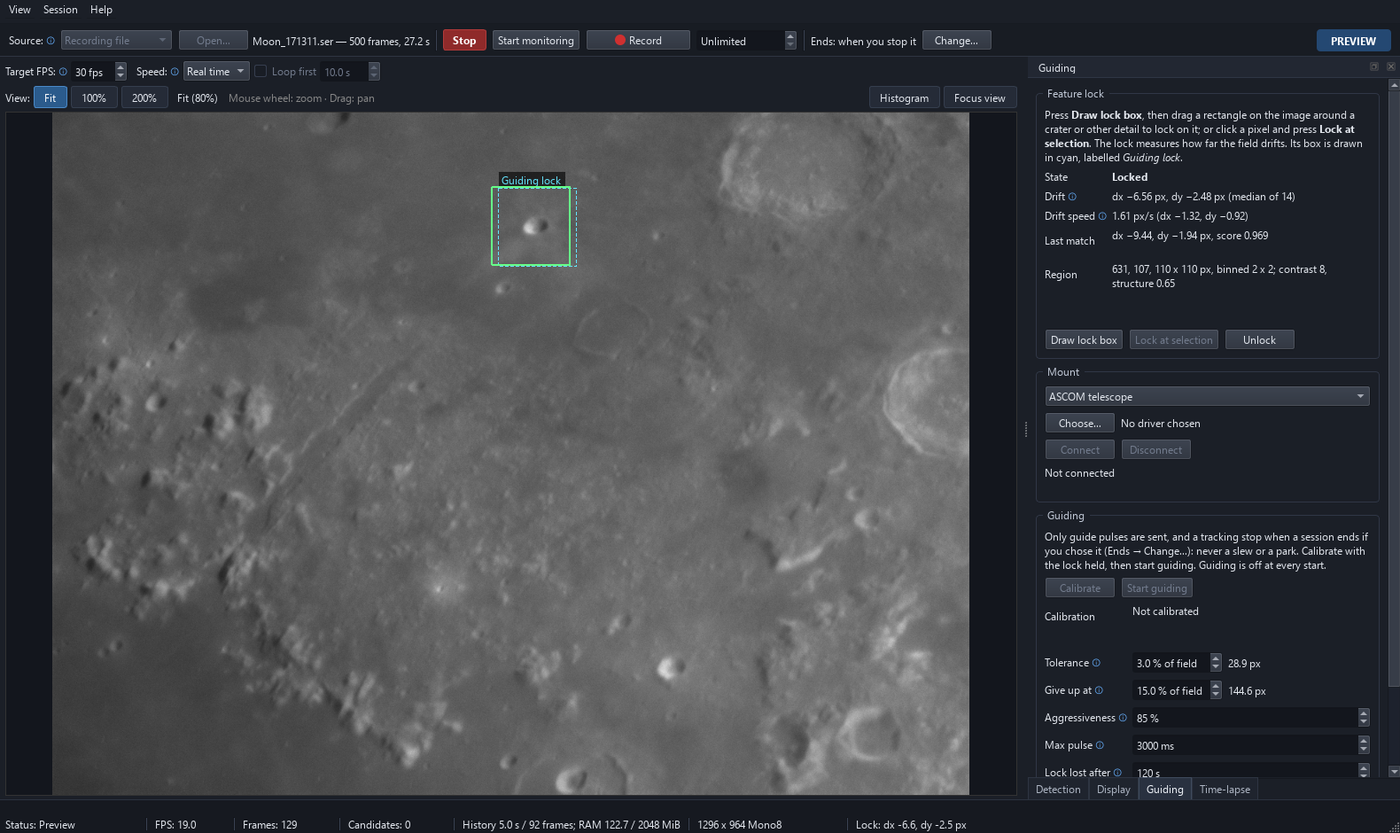
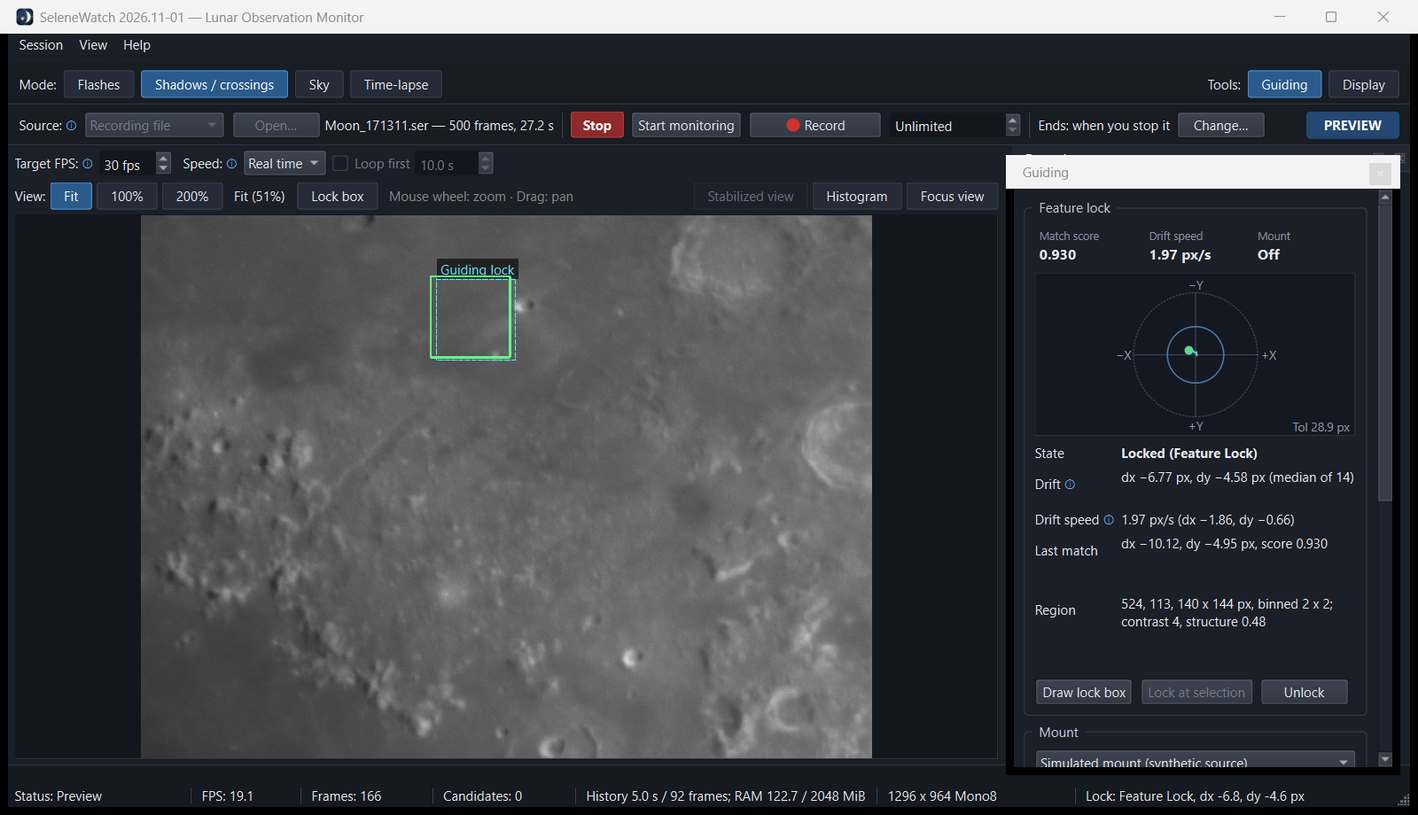
Refresh docs, startup tips, and UI screenshots for GUI redesign
Update user documentation, in-app startup tips, and application screenshots
following Feature-51 (Mode bar, floating Camera/Guiding/Display tools,
Capture & storage split, Guiding 2D drift bullseye, dedicated Time-lapse
viewport and Latest stacks strip) and Feature-52 (detector learning period
and consistent Preview-first workflow):

- Refresh docs/images/{readme-main-window,readme-guiding,manual-guiding,
  manual-display-histogram,manual-timelapse}.png from real lunar recordings
  in the redesigned dark UI.
- Update README.md (Time-lapses, Guiding, Also in SeleneWatch, captions),
  MANUAL.md screenshot captions, and CAMERA_SETTINGS_GUIDE.md (Tools ->
  Display/Guiding, Mode/Watching names).
- Update src/ui/startup_tips.cpp so Disk reserve points to Session ->
  Capture & storage... and tips match the new Mode/Tools labels.

Validation:
- Release build + ctest -R '^ui$' passed (100%, verifies startup tips
  anchors against MANUAL.md).
- All refreshed screenshots visually inspected.

diff --git a/src/ui/startup_tips.cpp b/src/ui/startup_tips.cpp
@@ -66,7 +66,7 @@ const std::vector<StartupTip>& allStartupTips()
         {
             "Display controls never alter saved pixels",
             "Switching to <b>Auto-stretch</b>, moving <b>Black / white levels</b>, ticking <b>Invert brightness</b>, "
-            "or toggling <b>Show Bayer colour</b> in <b>Display</b> only changes what appears on screen. "
+            "or toggling <b>Show Bayer colour</b> in <b>Tools &rarr; Display</b> only changes what appears on screen. "
             "Saved <code>.ser</code> videos and the detector always read unmodified linear camera pixels.",
             kSectionDisplay
         },
@@ -121,7 +121,7 @@ const std::vector<StartupTip>& allStartupTips()
         // ── Phase 2: Camera depth, ROI, timing, review & rehearsal ───────────
         {
             "Keep full sensor depth with RAW16",
-            "Choosing <b>RAW16</b> in your <b>Camera</b> dock preserves every ADC bit delivered by your sensor "
+            "Choosing <b>RAW16</b> in <b>Tools &rarr; Camera</b> preserves every ADC bit delivered by your sensor "
             "instead of scaling to 8 bits. Use <b>View &rarr; Histogram</b> in <b>Preview</b> to verify that sunlit "
             "lunar terrain or planetary bands stay unclipped for transits and time-lapses.",
             kSectionSource
@@ -129,8 +129,8 @@ const std::vector<StartupTip>& allStartupTips()
         {
             "Draw a hardware camera ROI on the preview",
             "Need faster frame rates or smaller files when imaging a planet or a single lunar crater? Click "
-            "<b>Draw ROI</b> in your <b>Camera</b> dock and drag a box directly on the live preview to crop the "
-            "sensor readout, or reset to full frame whenever you need the whole field back.",
+            "<b>ROI</b> above the preview (or <b>Draw ROI</b> in <b>Tools &rarr; Camera</b>) and drag a box directly "
+            "on the live image to crop the sensor readout, or reset to full frame whenever you need the whole field back.",
             kSectionSource
         },
         {
@@ -172,10 +172,10 @@ const std::vector<StartupTip>& allStartupTips()
         },
         {
             "Disk reserve safety",
-            "Set <b>Disk reserve</b> in <b>Display</b> to keep a safety margin of free space on your "
-            "output drive&mdash;especially when recording long SER runs or ticking <b>Also save raw SER bursts</b> in "
-            "<b>Time-lapse</b>. If free space drops below the reserve, SeleneWatch stops writing safely instead of "
-            "filling your disk.",
+            "Set <b>Disk reserve</b> under <b>Session &rarr; Capture &amp; storage&hellip;</b> to keep a safety margin "
+            "of free space on your output drive&mdash;especially when recording long SER runs or ticking <b>Also save "
+            "raw SER bursts</b> in <b>Time-lapse</b>. If free space drops below the reserve, SeleneWatch stops writing "
+            "safely instead of filling your disk.",
             kSectionOutputs
         },
 
@@ -204,10 +204,10 @@ const std::vector<StartupTip>& allStartupTips()
         },
         {
             "Surface-feature & planetary guiding",
-            "Hold a lunar crater or planetary disk steady without a guide scope: open <b>Guiding</b> in "
-            "<b>Preview</b>, click <b>Draw lock box</b> and drag around a sharp feature, connect your <b>ASCOM "
-            "telescope</b>, run <b>Calibrate</b>, and press <b>Start guiding</b>. Keeping <b>Tolerance</b> around "
-            "<code>3.0%</code> avoids chasing atmospheric seeing.",
+            "Hold a lunar crater or planetary disk steady without a guide scope: open <b>Tools &rarr; Guiding</b> in "
+            "<b>Preview</b>, click <b>Draw lock box</b> (or <b>Lock box</b> above the preview) and drag around a sharp "
+            "feature, connect your <b>ASCOM telescope</b>, run <b>Calibrate</b>, and press <b>Start guiding</b>. "
+            "Keeping <b>Tolerance</b> around <code>3.0%</code> avoids chasing atmospheric seeing.",
             kSectionGuides
         },
         {
@@ -266,9 +266,10 @@ const std::vector<StartupTip>& allStartupTips()
         // ── Phase 5: Time-lapses & testing safety reminder ───────────────────
         {
             "Lunar and planetary time-lapses",
-            "Watch planets turn and lunar shadows unfold. Open <b>Time-lapse</b> to capture regular bursts, stack "
-            "the sharpest frames, and export any mix of <b>MP4</b>, <b>GIF</b>, and lossless <b>SER</b> alongside "
-            "32-bit FITS stacks. End automatically via <b>Ends</b> above the preview or after a set stack count.",
+            "Watch planets turn and lunar shadows unfold. Switch to <b>Mode: Time-lapse</b> to capture regular bursts, "
+            "stack the sharpest frames, inspect them in the live <b>Latest stacks</b> strip, and export any mix of "
+            "<b>MP4</b>, <b>GIF</b>, and lossless <b>SER</b> alongside 32-bit FITS stacks. End automatically via "
+            "<b>Ends</b> above the preview or after a set stack count.",
             kSectionTimelapse
         },
         {

diff --git a/CAMERA_SETTINGS_GUIDE.md b/CAMERA_SETTINGS_GUIDE.md
@@ -48,7 +48,7 @@ Unlike deep-sky or planetary imaging of a steady target, a **lunar impact flash 
      - Medium and bright flashes clip at `255` / `65535`, preventing accurate peak brightness and impactor energy photometry.
      - The saturated glare zone spilling from the sunlit crescent expands much farther across the dark earthshine limb, blinding a larger fraction of the Moon.
 
-> **Use Display Stretch for your eyes, not camera gain:** Keep raw earthshine at **3–10 %** on the histogram, and switch **Display and capture → Display** to **Auto-stretch** (or set **Black / white levels** around the earthshine ADU range). You get a bright, high-contrast live view on screen while the detector and saved `event.ser` keep 90 %+ linear headroom.
+> **Use Display Stretch for your eyes, not camera gain:** Keep raw earthshine at **3–10 %** on the histogram, and open **Tools → Display** to switch to **Auto-stretch** (or set **Black / white levels** around the earthshine ADU range). You get a bright, high-contrast live view on screen while the detector and saved `event.ser` keep 90 %+ linear headroom.
 
 ---
 
@@ -75,7 +75,7 @@ The sunlit lunar surface is roughly **10,000× brighter** than earthshine. **Let
 2. **Avoid wasting sensor area on flat saturated white (`255` / `65535`):**
    - Saturated pixels have zero variance—they cannot detect flashes and cannot be used for guiding.
    - Because SeleneWatch estimates noise **per pixel**, the bright scattered-light gradient near the burned crescent automatically receives a higher local noise estimate `σ(x, y)` (preventing false triggers), while darker earthshine farther from the terminator keeps a low `σ(x, y)` and full sensitivity.
-3. **Where to place the Feature Lock box (`View → Guiding`):**
+3. **Where to place the Feature Lock box (`Tools → Guiding` or `Lock box` above the preview):**
    - **Option A — Lock directly on earthshine:** If the sunlit side is completely outside the frame, drag a slightly larger lock box (`80 × 80` to `128 × 128 px`) around a prominent high-contrast earthshine feature (*Aristarchus*, *Copernicus*, *Grimaldi*, *Mare Crisium*, or a curved earthshine limb corner). SeleneWatch's normalized cross-correlation runs on native ADU and tracks earthshine features reliably even at 5 % histogram levels.
    - **Option B — Lock on an unsaturated terminator cusp:** If a corner of the terminator is in view, lock onto an **unsaturated** crater rim near the high-latitude cusp where shadow contrast is crisp in both X and Y—never onto a flat saturated white plateau.
 
@@ -83,7 +83,7 @@ The sunlit lunar surface is roughly **10,000× brighter** than earthshine. **Let
 
 ### 1.5 30-Second Pre-Monitoring Checklist in SeleneWatch
 
-**Auto-tune does most of this for you.** In Preview, press **Auto-tune…** at the top of the Detection dock and draw a box on the earthshine. **Tune camera** sets the gain live, round by round (keeping the exposure at 10–40 ms), until the earthshine is in the 3–10 % aim. It then compares the gain it reached with one near the top of the aim by their measured noise, and keeps the one with the faintest threshold in photons. **Watch** then compares several K values on the same frames and suggests the lowest quiet one ([MANUAL.md, section 2.6](MANUAL.md#17-auto-tune)). The aims it uses are the ones in this guide: earthshine 3–10 %, sunlit rims 60–80 % for transits, and the sky 8–30 %. Run it again once the sky around the Moon is dark, and for the sky, run it in full darkness. The checks below are what it measures, if you prefer to do them by hand.
+**Auto-tune does most of this for you.** In Preview, press **Tune camera & detection…** at the top of the Detection panel and draw a box on the earthshine. **Tune camera** sets the gain live, round by round (keeping the exposure at 10–40 ms), until the earthshine is in the 3–10 % aim. It then compares the gain it reached with one near the top of the aim by their measured noise, and keeps the one with the faintest threshold in photons. **Watch** then compares several K values on the same frames and suggests the lowest quiet one ([MANUAL.md, section 1.7](MANUAL.md#17-auto-tune)). The aims it uses are the ones in this guide: earthshine 3–10 %, sunlit rims 60–80 % for transits, and the sky 8–30 %. Run it again once the sky around the Moon is dark, and for the sky, run it in full darkness. The checks below are what it measures, if you prefer to do them by hand.
 
 Before pressing **Start monitoring**:
 
@@ -104,14 +104,14 @@ Before pressing **Start monitoring**:
 
 ## 2. Settings for the Other Observing Workflows
 
-### 2.1 Lunar Transits & Shadows (`Watching: The Moon: shadows on the sunlit side`)
+### 2.1 Lunar Transits & Shadows (`Mode: Shadows / crossings`)
 
 - **Goal:** Keep the entire **sunlit lunar disk** unsaturated so aircraft, birds, satellites, or the ISS produce crisp, high-SNR negative contrast dips rather than dipping inside a clipped plateau.
 - **Histogram target:** Peak sunlit crater rims around **60 % – 80 %** of full scale (`~150–205 ADU` in `RAW8`, `~40000–52000 ADU` in `RAW16`), with **`At max code` reading `0.00%`** (especially important if recording continuously via **Record** or **Session → Schedule a recording…** for occultations or ISS transits).
 - **Exposure & Gain:** Use **low gain** and fast shutter speeds (**`1 – 10 ms`**, `60 – 200+ fps`) so fast transits (`0.5 s` ISS pass) remain sharp across many frames.
-- **Detection:** Set **Watching** to **The Moon: shadows on the sunlit side**. Darkening is always on there, and its own settings start at **`K 12`** (raise to `16` if seeing still triggers), `20 px` shadows, and one frame is enough, so the ISS and satellites, which never show twice in the same place, are caught too.
+- **Detection:** Switch to **Mode: Shadows / crossings** (or **Watching: Shadows / crossings (Moon, Sun, planets)**). Darkening is always on there, and its own settings start at **`K 12`** (raise to `16` if seeing still triggers), `20 px` shadows, and one frame is enough, so the ISS and satellites, which never show twice in the same place, are caught too.
 
-### 2.2 Lunar & Planetary Time-Lapses
+### 2.2 Lunar & Planetary Time-Lapses (`Mode: Time-lapse`)
 
 - **Goal:** Freeze atmospheric seeing per frame (`1 – 15 ms`) with high dynamic range so stacks of the sharpest frames (`stacks/*.fits`) align cleanly and tolerate aggressive **Re-sharpen time-lapse…** deconvolution/USM without noise explosion or blown highlights.
 - **Histogram target:** **65 % – 85 %** on the brightest sunlit lunar highland/crater rim or Jupiter/Saturn cloud band, keeping **`At max code`** at **`0.00%`** (`0` clipped white pixels—clipped pixels cannot be recovered by sharpening).
@@ -121,11 +121,11 @@ Before pressing **Start monitoring**:
 
 ### 2.3 Wide-Field Sky Watch (Meteors, Fireballs, Lightning, Aircraft)
 
-- **Goal:** Maximize sky coverage and detection sensitivity across the night while leaving headroom for bright meteor flares and lightning, and ignoring horizon clutter via **Draw mask**.
+- **Goal:** Maximize sky coverage and detection sensitivity across the night while leaving headroom for bright meteor flares and lightning, and ignoring horizon clutter via **Mask** (**Draw mask**).
 - **Histogram target:** Keep the **unmasked sky median** between **8 % and 30 %** of full scale (`~5000–20000 ADU` in `RAW16`, `20–75 ADU` in `RAW8`), with **`At 0` = `0.00%`**.
-  - When **Follow the sky's brightness** is enabled under **Watching: The sky**, SeleneWatch automatically adjusts camera exposure (up to `2×` per step within your `ms` bounds) and then gain (within your cap) whenever the unmasked sky median drifts outside **8 % – 30 %**.
-- **Exposure & Gain (Watching: The sky: fast events):** about **`20 – 40 ms`** (`25 – 50 fps`) with moderate-to-high gain; auto-tune stops at 40 ms by default. A meteor crosses a pixel in a few milliseconds, so a longer exposure leaves no more of its light in each pixel. It only adds sky background, and the noise each pixel is tested against. Short exposures also give the timing and trajectory frame by frame.
-- **Slow and faint light (Watching: The sky: slow and faint):** aurora, airglow waves, slow satellites and long glows, and a time-lapse of the night. Light that stays in place keeps adding up, so use **`0.25 – 2 s`** (auto-tune's default longest is 2 s), keeping the sky median in the same 8–30 % band. Its detection settings learn the background over about five frames, and **Time-lapse while monitoring** keeps a frame every 30 or 60 s.
+  - When **Follow the sky's brightness** is enabled under **Mode: Sky**, SeleneWatch automatically adjusts camera exposure (up to `2×` per step within your `ms` bounds) and then gain (within your cap) whenever the unmasked sky median drifts outside **8 % – 30 %**.
+- **Exposure & Gain (`Watching: Fast sky events (meteors, lightning)`):** about **`20 – 40 ms`** (`25 – 50 fps`) with moderate-to-high gain; auto-tune stops at 40 ms by default. A meteor crosses a pixel in a few milliseconds, so a longer exposure leaves no more of its light in each pixel. It only adds sky background, and the noise each pixel is tested against. Short exposures also give the timing and trajectory frame by frame.
+- **Slow and faint light (`Watching: Slow & faint sky (long exposures)`):** aurora, airglow waves, slow satellites and long glows, and a time-lapse of the night. Light that stays in place keeps adding up, so use **`0.25 – 2 s`** (auto-tune's default longest is 2 s), keeping the sky median in the same 8–30 % band. Its detection settings learn the background over about five frames, and **Time-lapse while monitoring** keeps a frame every 30 or 60 s.
 - **Sensor Color Note:** Both **mono** and **raw Bayer colour** sensors work identically in **Detection** (per-pixel statistics run on the raw mosaic; **Show Bayer colour** only affects screen display, never evidence).
 
 ---
@@ -134,7 +134,7 @@ Before pressing **Start monitoring**:
 
 | Workflow | Target Histogram Level | Typical Exposure & Rate | Gain & Format | Key Detection / Panel Settings |
 | --- | --- | --- | --- | --- |
-| **1. Lunar Impact Flashes** *(Earthshine)* | **3 % – 10 %** on earthshine (`At 0` = `0.00%`; sunlit side allowed to saturate) | **`16 – 33 ms`** (`30 – 60 fps`) | HCG / unity gain; **`RAW16`** preferred (or `RAW8` at 5–10 %) | **Watching:** `The Moon` · **K:** `6.0 – 10.0 σ` · **Patch:** `8 – 400 px` · **1-frame trigger:** `On` · **Display:** `Auto-stretch` |
-| **2. Lunar Transits & Shadows** *(Sunlit Moon)* | **60 % – 80 %** on brightest sunlit crater rims (`At max code` = `0.00%`) | **`1 – 10 ms`** (`60 – 200+ fps`) | Low gain (maximize dynamic range); `RAW8` or `RAW16` | **Watching:** `The Moon: shadows on the sunlit side` · **K:** **`12.0 – 16.0 σ`** · **Maximum patch:** `20000 px` (or **Record** / **Schedule…**) |
-| **3. Lunar & Planetary Time-Lapses** | **65 % – 85 %** on brightest sunlit terrain or cloud belts (`At max code` = `0.00%`) | **`2 – 15 ms`** (`60 – 150+ fps`) | Low-to-moderate gain; `RAW8` or `RAW16` (mono or Bayer colour) | **Time-lapse:** `Moon` (`25 %` best, `150` cap) or `Planet` (`15 %` best, `200` cap, window `≤ 60–90 s`) |
-| **4. Wide-Field Sky Watch** *(Fixed Camera)* | **8 % – 30 %** unmasked sky median (`At 0` = `0.00%`) | Fast events: **`20 – 40 ms`** (`25 – 50 fps`); slow and faint: **`0.25 – 2 s`** | Moderate-to-high gain; **Follow the sky's brightness** optional | **Watching:** `The sky` · **K:** `6.0 – 14.0 σ` · **Max patch:** `3000 px` · **Box/patch:** `30 ×` · **Large brightening:** `2 %` · **Learn after:** `20 s` · **Draw mask** on horizon |
+| **1. Lunar Impact Flashes** *(Earthshine)* | **3 % – 10 %** on earthshine (`At 0` = `0.00%`; sunlit side allowed to saturate) | **`16 – 33 ms`** (`30 – 60 fps`) | HCG / unity gain; **`RAW16`** preferred (or `RAW8` at 5–10 %) | **Mode:** `Flashes` · **K:** `6.0 – 10.0 σ` · **Patch:** `8 – 400 px` · **1-frame trigger:** `On` · **Tools → Display:** `Auto-stretch` |
+| **2. Lunar Transits & Shadows** *(Sunlit Moon)* | **60 % – 80 %** on brightest sunlit crater rims (`At max code` = `0.00%`) | **`1 – 10 ms`** (`60 – 200+ fps`) | Low gain (maximize dynamic range); `RAW8` or `RAW16` | **Mode:** `Shadows / crossings` · **K:** **`12.0 – 16.0 σ`** · **Maximum patch:** `20000 px` (or **Record** / **Schedule…**) |
+| **3. Lunar & Planetary Time-Lapses** | **65 % – 85 %** on brightest sunlit terrain or cloud belts (`At max code` = `0.00%`) | **`2 – 15 ms`** (`60 – 150+ fps`) | Low-to-moderate gain; `RAW8` or `RAW16` (mono or Bayer colour) | **Mode:** `Time-lapse` · `Moon` (`25 %` best, `150` cap) or `Planet` (`15 %` best, `200` cap, window `≤ 60–90 s`) |
+| **4. Wide-Field Sky Watch** *(Fixed Camera)* | **8 % – 30 %** unmasked sky median (`At 0` = `0.00%`) | Fast events: **`20 – 40 ms`** (`25 – 50 fps`); slow and faint: **`0.25 – 2 s`** | Moderate-to-high gain; **Follow the sky's brightness** optional | **Mode:** `Sky` · **K:** `6.0 – 14.0 σ` · **Max patch:** `3000 px` · **Box/patch:** `30 ×` · **Large brightening:** `2 %` · **Learn after:** `20 s` · **Mask** on horizon |

diff --git a/README.md b/README.md
@@ -56,9 +56,9 @@ In the morning, a report lists the night's events. It groups them by what was me
 
 Shadows lengthen across lunar craters, Jupiter turns, its moons move. A time-lapse shows changes too slow to see at the eyepiece.
 
-At a fixed interval, for example every minute, SeleneWatch captures a short burst of frames, keeps the sharpest, aligns and stacks them, and sharpens the result. At the end of the session it builds the video. A **feature lock** follows a crater or the planet's disk, and can guide your mount to keep it in the field for hours. A Moon time-lapse is aligned on a steady area you choose (the lunar anchor) rather than on the whole frame, where a passing cloud could turn the image; a planet is kept centred on its disk.
+Switch to **Mode: Time-lapse**, preview and frame your target, and start a session. At a fixed interval, for example every minute, SeleneWatch captures a short burst of frames, keeps the sharpest, aligns and stacks them, and builds the video when the session ends. Above the preview you can switch live between **Live camera**, **Latest stack**, and **Sequence loop**, and inspect completed frames from the collapsible **Latest stacks** strip below. A **feature lock** follows a crater or the planet's disk, and can guide your mount to keep it in the field for hours. A Moon time-lapse is aligned on a steady area you choose (the lunar anchor) rather than on the whole frame, where a passing cloud could turn the image; a planet is kept centred on its disk.
 
-Every stack is kept as a 32-bit FITS file. Afterwards you can sharpen it again, drop blurred or cloudy stacks (by their sharpness, compared with the stacks around them), check every dropped stack, and rebuild the video, without capturing again.
+Every stack is kept as a 32-bit FITS file. Afterwards you can re-align (by feature box or automatic multi-point alignment), sharpen again, level brightness across thin clouds, drop blurred or cloudy stacks (by their sharpness, compared with the stacks around them), check every dropped stack, and rebuild MP4, GIF, or lossless SER without capturing again.
 
 ![A stack from a Moon time-lapse](docs/images/timelapse-moon-stack.jpg)
 
@@ -104,11 +104,11 @@ SeleneWatch tests each pixel against its own noise, so a faint flash on the dark
 
 Keeping a lunar region or a planet centred for hours usually fails with standard star guiders—there are no guide stars on the Moon, and the Moon moves at its own rate against the stars. SeleneWatch guides directly on the main camera's live stream instead.
 
-Draw a box around a crisp lunar crater, terminator detail, or a planet's disk, and SeleneWatch tracks its drift to sub-pixel precision in real time. Once calibrated against your [ASCOM](https://ascom-standards.org/) mount, it sends **guide pulses only** (never slews, parks, or unexpected tracking changes) to hold the feature steady through time-lapses, shadow-transit watches, impact-flash runs, or long continuous recordings. If clouds break the lock, guiding pauses and waits through a grace period before ending safely; you can also watch live drift speed along RA and Dec to refine polar alignment.
+Draw a box around a crisp lunar crater, terminator detail, or a planet's disk (SeleneWatch automatically uses **Feature Lock** for lunar surface detail and **Disk centroid** for full disks), and it tracks drift to sub-pixel precision in real time. Open **Tools → Guiding** to monitor **Match score**, **Drift speed**, and a live 2D **drift bullseye plot** inside your tolerance ring. Once calibrated against your [ASCOM](https://ascom-standards.org/) mount, it sends **guide pulses only** (never slews, parks, or unexpected tracking changes) to hold the feature steady through time-lapses, shadow-transit watches, impact-flash runs, or long continuous recordings. If clouds break the lock, guiding pauses and waits through a grace period before ending safely; you can also watch live drift speed along RA and Dec to refine polar alignment.
 
 ![Feature lock tracking a lunar crater in SeleneWatch](docs/images/readme-guiding.png)
 
-*Feature lock tracking a sunlit lunar crater on a real recording: the dashed cyan box marks the reference position, the solid green box follows the crater as the field drifts, and the Guiding panel reports sub-pixel drift, drift speed, match quality, and ASCOM pulse-guiding controls.*
+*Feature lock tracking a sunlit lunar crater on a real recording: the dashed cyan box marks the reference position, the solid green box follows the crater as the field drifts, and the floating Guiding window shows live match score, drift speed, a 2D drift bullseye plot inside the tolerance circle, and ASCOM pulse-guiding controls.*
 
 ---
 
@@ -129,7 +129,8 @@ From your phone's browser you can check what SeleneWatch is doing (Monitoring, P
 ## Also in SeleneWatch
 
 - **Cameras:** ZWO ASI, QHYCCD, Player One, and ToupTek (with the brands whose cameras it makes, such as Altair). Recordings in SER and uncompressed AVI, with FireCapture's log files. A synthetic Moon and sky for practice without hardware.
-- **Preview before you capture:** see the camera's real pixels at any zoom, set the stretch and the histogram, and see what would trigger, without saving anything.
+- **Focused workspace:** switch between **Flashes**, **Shadows / crossings**, **Sky**, and **Time-lapse** in the top **Mode** bar; open **Camera**, **Guiding**, and **Display** as floating tool windows from the **Tools** bar; adjust clip timing and safety limits under **Session → Capture & storage…**; switch between Dark, Red night vision, and System themes, or press `F11` for Focus view.
+- **Preview first, then capture:** Preview always comes first across live cameras and recordings. See the camera's real pixels at any zoom, optionally stabilize the preview or detection against mount shake, stretch the display, read the histogram, let the detector adapt cleanly to the scene, and see what would trigger, without saving anything.
 - **Auto-tune:** measures the scene and suggests the exposure, gain and sensitivity for what you are watching.
 - **Unattended nights:** the session ends by itself at a time, after a duration, at dawn or when the Moon sets, and also when the camera, the guiding or the disk fails. You choose whether the mount then keeps tracking.
 - **Continuous and scheduled recording:** record every frame on demand, or over a time set in advance for a predicted event.

diff --git a/MANUAL.md b/MANUAL.md
@@ -66,7 +66,7 @@ To guide a mount (for the Moon and the planets), install the [ASCOM Platform](ht
 
 ![SeleneWatch's main window while monitoring the Moon](docs/images/readme-main-window.png)
 
-*The main window while monitoring the Moon: the command bar at the top, the live image filling the window, the Detection panel on the right and the histogram below it.*
+*The main window while monitoring the Moon: the Mode and Tools bar at the top, the command bar and preview toolbar below it, the live image filling the window, and the Detection panel with the live peak-sigma graph and histogram on the right.*
 
 **The mode bar** at the very top switches between the four observing modes — **Flashes**, **Shadows / crossings**, **Sky**, and **Time-lapse** — selecting the matching watch, swapping the right sidebar to the active mode's controls (**Detection** or **Time-lapse**), and updating the primary start action without resetting settings. On the right side of the same bar, **Tools** toggle buttons (**Camera**, **Guiding**, **Display**) open or hide floating instrument windows (which can also be docked by dragging) without crowding the sidebar.
 
@@ -145,7 +145,7 @@ What you set in the **Display** window (**Tools → Display** or **View → Disp
 
 ![Display stretch and the histogram](docs/images/manual-display-histogram.png)
 
-*Black and white levels stretch a faint image on screen; the histogram shows the camera's real values.*
+*The floating Display tool (**Tools → Display**) stretching a faint image on screen with Black / white levels while the histogram shows the camera's real values.*
 
 - **Display:** **Linear** shows the full range; **Black / white levels** stretches between two values you set; **Auto-stretch** chooses them from the image. **Invert brightness** and **Show Bayer colour** are for viewing only.
 - **The histogram** (**Histogram** on the preview bar, or **View → Histogram**) shows the camera's values before any stretch, with the share of pixels at zero and at the top of the range, where detail is lost.
@@ -338,9 +338,9 @@ Shadows lengthen across craters near the terminator, Jupiter turns in ten hours,
 
 *One sharpened stack of a Moon time-lapse, from 57 stacks a minute apart.*
 
-![The time-lapse panel during a session](docs/images/manual-timelapse.png)
+![Time-lapse mode during a lunar session](docs/images/manual-timelapse.png)
 
-*The time-lapse panel during a session: the lunar anchor box on the image, the latest stack and the loop of stacks.*
+*Time-lapse mode during a lunar session: the **Time-lapse view** bar (**Live camera**, **Latest stack**, **Sequence loop**) above the preview, the pink lunar anchor box on the Moon, the collapsible **Latest stacks** strip below, and the Time-lapse controls on the right.*
 
 ![Re-sharpening a time-lapse](docs/images/manual-resharpen.png)
 
@@ -481,9 +481,9 @@ To check your settings by hand, turn on **View → Testing tools**, click on the
 
 For the Moon and the planets. Even with the mount tracking, the Moon drifts slowly across the sensor, and a mount's small errors add up over hours. The **feature lock** follows a crater or a planet's disk on the image, with or without a mount. **Guiding** sends the mount small corrections to keep it in place. Neither is used for the sky.
 
-![The feature lock on a lunar crater](docs/images/manual-guiding.png)
+![The feature lock and floating Guiding window on a lunar crater](docs/images/manual-guiding.png)
 
-*The lock on a crater: the dashed box is where it was locked, the green box where it is now; the drift shows in the status bar.*
+*Feature lock on a lunar crater with the floating **Guiding** tool (**Tools → Guiding**): the dashed cyan box marks where it was locked, the solid green box tracks the crater, and the instrument panel shows match score, drift speed, and the live 2D drift bullseye plot inside the tolerance circle.*
 
 ### Step by step
 
